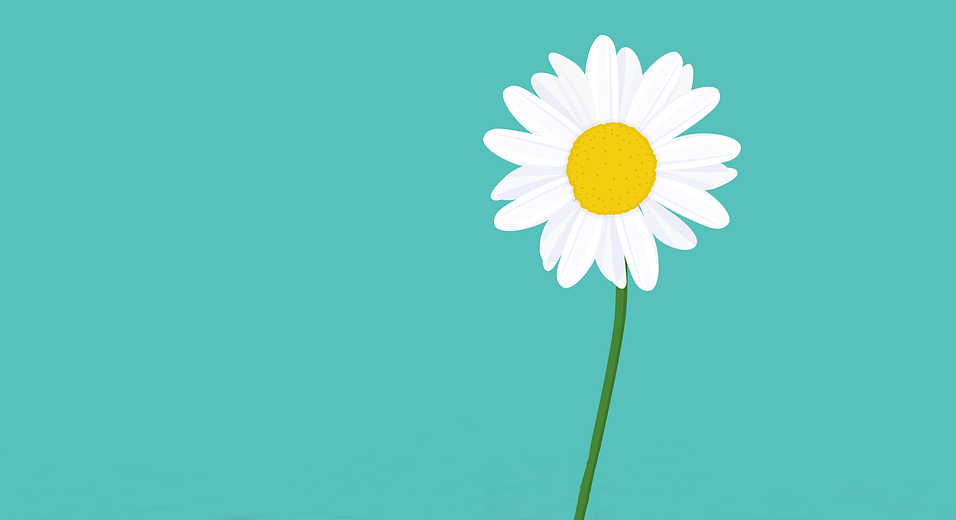
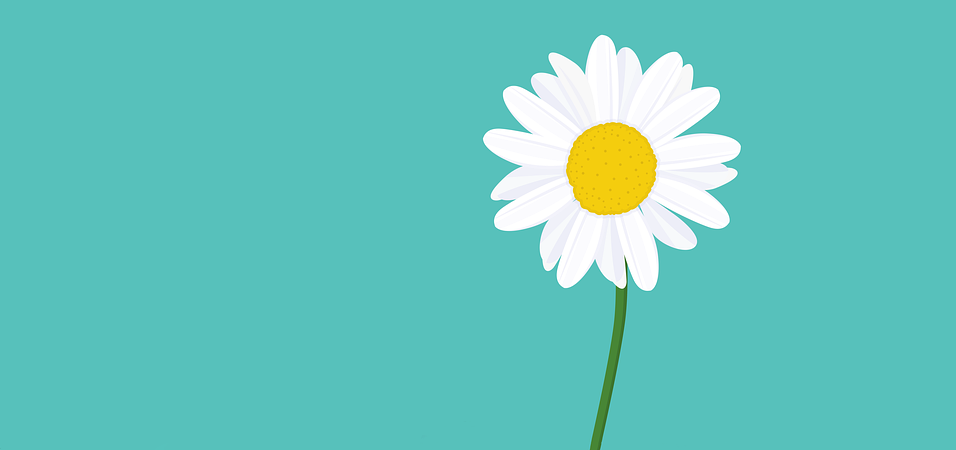
fixed each page's back ground img, fixed img position in each page. Reduced the photo quality for better rendering

Changed region(s): [[0.4854, 0.0622, 0.7887, 1.0]]

diff --git a/public/stylesheets/plantInformation.css b/public/stylesheets/plantInformation.css
@@ -8,7 +8,7 @@
   }
 
   .theText{
-    background-color:#bee5eb;
+    background-color:#e4eff0;
     border-radius: 5px;
     box-shadow: 0 -2px 10px #9e9e9e;
   }
@@ -16,6 +16,10 @@
 
   .table{
     box-shadow: 0 -2px 10px #9e9e9e;
+  }
+
+  tbody {
+    background-color: #e4eff0;
   }
 
   .gapSpace {
@@ -46,25 +50,20 @@
 
   .list_case{
     border: #9e9e9e;
-    background-color: whitesmoke
+    background-color: #e4eff0;
   }
 
   .list_item{
-
     font-size: 1.3rem;
     font-style: italic;
     font-weight: bolder;
     text-shadow: 2px 2px 8px  #7c7777;
-    
-    
   }
 
   .pInfo{
     font-size:1.2rem;
     font-weight: lighter;
     text-align: right;
-    
-
   }
 
   .title{
@@ -208,7 +207,7 @@ nav {
   width: 960px;
   height: auto;
   margin-left: auto;
-  margin-right: 0;
+  margin-right: auto;
 }
 
 .searchStyle {
@@ -224,10 +223,6 @@ nav {
     padding-top: 50px;
     text-align: center;
     background-color: #f0f0f0;
-}
-
-.credit-link {
-    color: #21578C;
 }
 
 .credit-text{

diff --git a/public/stylesheets/referencePage.css b/public/stylesheets/referencePage.css
@@ -28,14 +28,14 @@ h3 {
     font-size: x-large;
 }
 
+a {
+    color: #2C7776;
+}
+
 .credits {
     padding-top: 50px;
     text-align: center;
     background-color: #f0f0f0;
-}
-
-.credit-link {
-    color: #21578C;
 }
 
 .credit-text{
